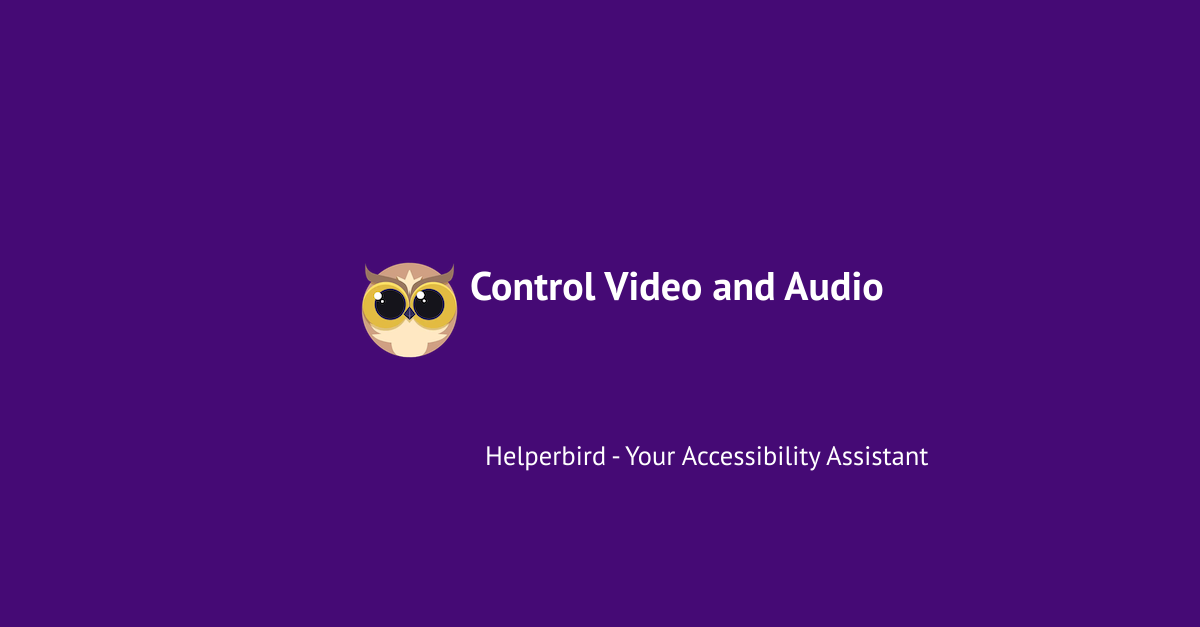
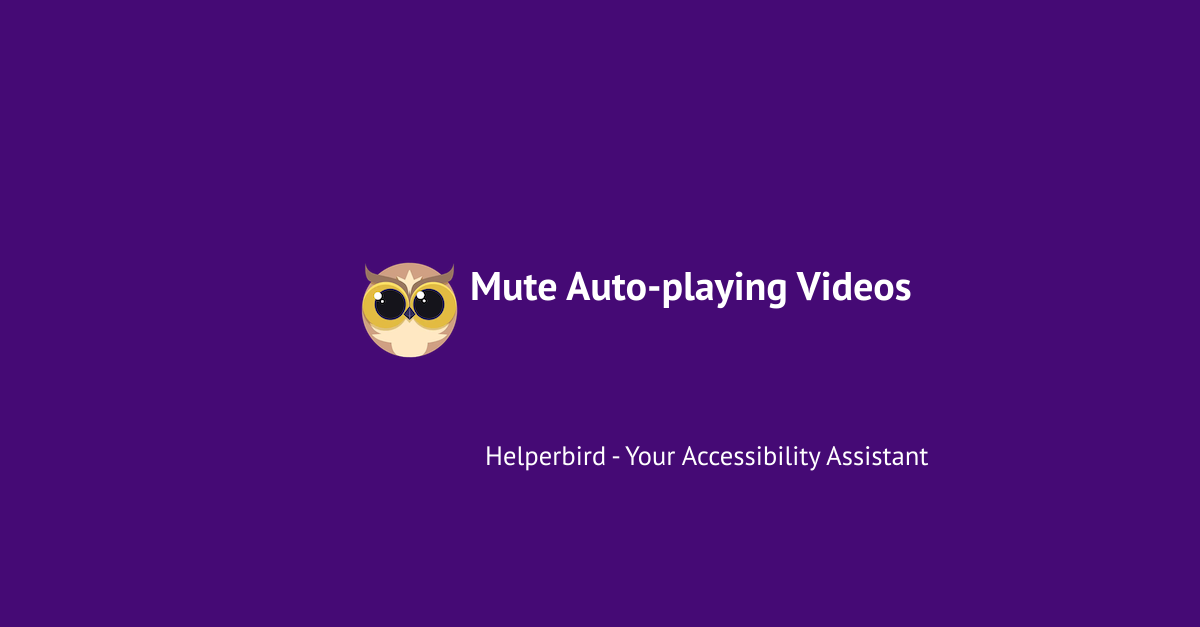
Deploying to gh-pages from  @ 6770f400b1767beb80c26e8b61d45a4356cd2a06 🚀

Changed region(s): [[0.37, 0.4242, 0.7708, 0.4848]]

diff --git a/features/mute-videos/index.html b/features/mute-videos/index.html
@@ -4,7 +4,7 @@
   <head>
     <meta charset="utf-8" />
     <meta content="width=device-width, initial-scale=1.0" name="viewport" />
-    <title>Mute Annoying Auto-playing Videos with Ease - Helperbird features</title>
+    <title>Mute Auto-playing Videos - Helperbird features</title>
     <link href="/assets/js/main.css" rel="stylesheet" />
     <script>
       if ('serviceWorker' in navigator) {
@@ -13,24 +13,24 @@
     </script>
 
     <link href="https://www.helperbird.com/features/mute-videos/" rel="canonical" />
-    <meta content="Silence distractions and take control of playback speeds with Helperbird's Mute Videos and Audio feature. Mute annoying auto-playing videos and adjust their speed for a tailored browsing experience. Available on Chrome, Edge, Firefox, iPad, and iPhone." name="description" />
+    <meta content="Stop annoying auto-playing videos and control playback speeds with Helperbird. Enjoy a quieter, more focused browsing experience on Chrome, Edge, Firefox, iPad, and iPhone." name="description" />
     <meta content="Dyslexia software, Reading Mode for Google Chrome, Voice typing for Chrome, Text to speech for Chrome, text reader, Immersive Reader, dyslexia fonts, accessibility software, dyslexia software, Helperbird for Edge, Helperbird for Firefox, Helperbird for Chrome, Opendyslexic for Chrome, OpenDyslexic" name="keywords" />
 
     <meta name="viewport" content="width=device-width, initial-scale=1, shrink-to-fit=no" />
     <meta content="/assets/images/favicon.png" name="image" />
     <meta content="#5046e4" name="theme-color" />
     <meta content="Helperbird" itemprop="name" />
-    <meta content="Silence distractions and take control of playback speeds with Helperbird's Mute Videos and Audio feature. Mute annoying auto-playing videos and adjust their speed for a tailored browsing experience. Available on Chrome, Edge, Firefox, iPad, and iPhone." itemprop="description" />
+    <meta content="Stop annoying auto-playing videos and control playback speeds with Helperbird. Enjoy a quieter, more focused browsing experience on Chrome, Edge, Firefox, iPad, and iPhone." itemprop="description" />
     <meta content="/assets/images/favicon.png" itemprop="image" />
 
     <meta name="twitter:card" content="summary_large_image" />
     <meta name="twitter:site" content="@helperbird" />
     <meta name="twitter:creator" content="@robertjgabriel" />
-    <meta name="twitter:title" content="Mute Annoying Auto-playing Videos with Ease - Helperbird" />
+    <meta name="twitter:title" content="Mute Auto-playing Videos - Helperbird" />
     <meta property="twitter:domain" content="helperbird.com" />
 
     <meta property="twitter:url" content="https://www.helperbird.com/features/mute-videos/" />
-    <meta name="twitter:description" content="Silence distractions and take control of playback speeds with Helperbird's Mute Videos and Audio feature. Mute annoying auto-playing videos and adjust their speed for a tailored browsing experience. Available on Chrome, Edge, Firefox, iPad, and iPhone." />
+    <meta name="twitter:description" content="Stop annoying auto-playing videos and control playback speeds with Helperbird. Enjoy a quieter, more focused browsing experience on Chrome, Edge, Firefox, iPad, and iPhone." />
 
     <meta name="twitter:image:alt" content="Helperbird promo art with text saying visit Helperbird" />
     <meta name="twitter:image" content="https://www.helperbird.com/features/mute-videos/index.png" />
@@ -39,8 +39,8 @@
 
     <meta property="og:locale" content="en_US" />
     <meta property="og:type" content="website" />
-    <meta property="og:title" content="Mute Annoying Auto-playing Videos with Ease - Helperbird" />
-    <meta property="og:description" content="Silence distractions and take control of playback speeds with Helperbird's Mute Videos and Audio feature. Mute annoying auto-playing videos and adjust their speed for a tailored browsing experience. Available on Chrome, Edge, Firefox, iPad, and iPhone." />
+    <meta property="og:title" content="Mute Auto-playing Videos - Helperbird" />
+    <meta property="og:description" content="Stop annoying auto-playing videos and control playback speeds with Helperbird. Enjoy a quieter, more focused browsing experience on Chrome, Edge, Firefox, iPad, and iPhone." />
     <meta property="og:url" content="https://www.helperbird.com/features/mute-videos/" />
     <meta property="og:site_name" content="Helperbird" />
     <meta property="og:image" content="https://www.helperbird.com/features/mute-videos/index.png" />
@@ -2062,7 +2062,7 @@
         <div class="mx-auto max-w-4xl text-center">
           <h1 class="leading-relaxed font-sans text-4xl font-bold text-black sm:text-6xl">Silence Distractions, Mute Annoying Auto-playing Videos with Ease</h1>
           <p class="leading-relaxed font-sans mt-6 text-2xl text-black">
-            Silence distractions and take control of playback speeds with Helperbird's Mute Videos and Audio feature. Mute annoying auto-playing videos and adjust their speed for a tailored browsing experience. Available on Chrome, Edge, Firefox, iPad, and iPhone.
+            Stop annoying auto-playing videos and control playback speeds with Helperbird. Enjoy a quieter, more focused browsing experience on Chrome, Edge, Firefox, iPad, and iPhone.
           </p>
           <div class="mt-10 flex items-center justify-center gap-x-6">
 
@@ -2105,8 +2105,8 @@
 
           <div class="px-6 py-24 sm:py-32 lg:px-8 mb-12">
             <div class="mx-auto max-w-2xl text-center">
-              <h2 class="text-3xl font-bold text-black sm:text-4xl">Control Video and Audio</h2>
-              <p class="mt-6 text-2xl  text-black">Silence distractions and take control of playback speeds with Helperbird's Mute Videos and Audio feature. Mute annoying auto-playing videos and adjust their speed for a tailored browsing experience. Available on Chrome, Edge, Firefox, iPad, and iPhone.</p>
+              <h2 class="text-3xl font-bold text-black sm:text-4xl">Mute Auto-playing Videos</h2>
+              <p class="mt-6 text-2xl  text-black">Stop annoying auto-playing videos and control playback speeds with Helperbird. Enjoy a quieter, more focused browsing experience on Chrome, Edge, Firefox, iPad, and iPhone.</p>
             </div>
           </div>
 
@@ -2117,29 +2117,26 @@
                 <div class="lg:max-w-lg text-black">
 
               
-                  <h2 class="leading-relaxed font-display text-2xl mb-6 mt-12 font-semibold text-gray-800">Tell Me About This feature</h2>
-<p class="leading-relaxed font-display mb-4 mt-4 text-lg text-gray-900">Helperbird's Auto-Play Video Mute feature allows users to easily silence distractions and improve their browsing experience by muting annoying auto-playing videos.</p>
-<p class="leading-relaxed font-display mb-4 mt-4 text-lg text-gray-900">This feature allows users to focus on the content they want to see and eliminates the need to manually mute each video.</p>
-<p class="leading-relaxed font-display mb-4 mt-4 text-lg text-gray-900">It can also help to reduce data usage and save bandwidth. Additionally, it can be helpful for people who are sensitive to noise, by reducing the chance of discomfort.</p>
-<p class="leading-relaxed font-display mb-4 mt-4 text-lg text-gray-900">Say goodbye to unwanted videos and hello to a better browsing experience with Helperbird's Auto-Play Video Mute feature.</p>
+                  <h2 class="leading-relaxed font-display text-2xl mb-6 mt-12 font-semibold text-gray-800">About This Feature</h2>
+<p class="leading-relaxed font-display mb-4 mt-4 text-lg text-gray-900">Helperbird's Mute Videos and Audio feature lets you easily mute annoying auto-playing videos. This helps you focus on the content you want to see without distractions.</p>
+<p class="leading-relaxed font-display mb-4 mt-4 text-lg text-gray-900">This feature also helps reduce data usage and is great for people who are sensitive to noise.</p>
 <h2 class="leading-relaxed font-display text-2xl mb-6 mt-12 font-semibold text-gray-800">Benefits</h2>
-<p class="leading-relaxed font-display mb-4 mt-4 text-lg text-gray-900">There are several benefits of Helperbird's Auto-Play Video Mute feature, including:</p>
-<h3 class="leading-relaxed font-display text-xl mb-4 mt-10 font-semibold text-gray-700">Silence distractions</h3>
-<p class="leading-relaxed font-display mb-4 mt-4 text-lg text-gray-900">It allows users to easily silence distractions and improve their browsing experience by muting annoying auto-playing videos.</p>
-<h3 class="leading-relaxed font-display text-xl mb-4 mt-10 font-semibold text-gray-700">Eliminates the need to manually mute each video</h3>
-<p class="leading-relaxed font-display mb-4 mt-4 text-lg text-gray-900">It eliminates the need to manually mute each video, allowing users to focus on the content they want to see.</p>
-<h3 class="leading-relaxed font-display text-xl mb-4 mt-10 font-semibold text-gray-700">Help reduce data usage</h3>
-<p class="leading-relaxed font-display mb-4 mt-4 text-lg text-gray-900">It can help to reduce data usage and save bandwidth.</p>
-<h3 class="leading-relaxed font-display text-xl mb-4 mt-10 font-semibold text-gray-700">Sensitive to noise</h3>
-<p class="leading-relaxed font-display mb-4 mt-4 text-lg text-gray-900">It can be helpful for people who are sensitive to noise, by reducing the chance of discomfort.</p>
+<h3 class="leading-relaxed font-display text-xl mb-4 mt-10 font-semibold text-gray-700">Silence Distractions</h3>
+<p class="leading-relaxed font-display mb-4 mt-4 text-lg text-gray-900">Easily mute annoying auto-playing videos to improve your browsing experience.</p>
+<h3 class="leading-relaxed font-display text-xl mb-4 mt-10 font-semibold text-gray-700">Save Time</h3>
+<p class="leading-relaxed font-display mb-4 mt-4 text-lg text-gray-900">No need to manually mute each video—Helperbird does it for you.</p>
+<h3 class="leading-relaxed font-display text-xl mb-4 mt-10 font-semibold text-gray-700">Reduce Data Usage</h3>
+<p class="leading-relaxed font-display mb-4 mt-4 text-lg text-gray-900">Save data and bandwidth by muting videos and audio.</p>
+<h3 class="leading-relaxed font-display text-xl mb-4 mt-10 font-semibold text-gray-700">Noise Sensitivity</h3>
+<p class="leading-relaxed font-display mb-4 mt-4 text-lg text-gray-900">Helpful for people who are sensitive to noise, reducing discomfort.</p>
 <h2 class="leading-relaxed font-display text-2xl mb-6 mt-12 font-semibold text-gray-800">Features</h2>
 <ul class="leading-relaxed list-disc list-inside mt-4 space-y-2 pl-6 text-lg font-display ml-6 mb-8 text-gray-900">
-<li class="leading-relaxed mb-2 text-lg font-display text-gray-900 flex items-center">Stop videos from auto playing.</li>
-<li class="leading-relaxed mb-2 text-lg font-display text-gray-900 flex items-center">Stop audio from auto playing.</li>
-<li class="leading-relaxed mb-2 text-lg font-display text-gray-900 flex items-center">Mute all annoying videos and audio.</li>
+<li class="leading-relaxed mb-2 text-lg font-display text-gray-900 flex items-center">Stop videos from auto-playing</li>
+<li class="leading-relaxed mb-2 text-lg font-display text-gray-900 flex items-center">Stop audio from auto-playing</li>
+<li class="leading-relaxed mb-2 text-lg font-display text-gray-900 flex items-center">Mute all annoying videos and audio</li>
 </ul>
-<h2 class="leading-relaxed font-display text-2xl mb-6 mt-12 font-semibold text-gray-800">Is this Pro feature?</h2>
-<p class="leading-relaxed font-display mb-4 mt-4 text-lg text-gray-900">Yes, this is a Pro feature. You can get a free trial of Helperbird Pro by clicking <a href="/pricing/" class="leading-relaxed font-sans text-lg text-blue-500 hover:text-blue-700 underline">here</a>.</p>
+<h2 class="leading-relaxed font-display text-2xl mb-6 mt-12 font-semibold text-gray-800">Is This a Pro Feature?</h2>
+<p class="leading-relaxed font-display mb-4 mt-4 text-lg text-gray-900">Yes, this is a Pro feature. You can try Helperbird Pro for free by clicking <a href="/pricing/" class="leading-relaxed font-sans text-lg text-blue-500 hover:text-blue-700 underline">here</a>.</p>
 
 
                 </div>

diff --git a/service-worker.js b/service-worker.js
@@ -1784,7 +1784,7 @@ self.__precacheManifest = [
   },
   {
     "url": "extension/index.html",
-    "revision": "d956127eed936b92f3dae8417d48357b"
+    "revision": "e67fb0a56763c70426373405ead1ba12"
   },
   {
     "url": "extension/index.png",
@@ -1936,7 +1936,7 @@ self.__precacheManifest = [
   },
   {
     "url": "features/index.html",
-    "revision": "93789b0316598fa3f4aad6c64db033d0"
+    "revision": "0412d06c8a162acc838e42551665ecc5"
   },
   {
     "url": "features/index.png",
@@ -1944,11 +1944,11 @@ self.__precacheManifest = [
   },
   {
     "url": "features/mute-videos/index.html",
-    "revision": "25566568c2cfc227d9816d9c720925bf"
+    "revision": "e1ec9b0e5a1f1fbab07f17a09e158fec"
   },
   {
     "url": "features/mute-videos/index.png",
-    "revision": "c3776a95616e0a3ef00d8017ba90a864"
+    "revision": "e3eb32b765f8d5f944d5fd3f77c11e0a"
   },
   {
     "url": "features/notes/index.html",
@@ -2920,7 +2920,7 @@ self.__precacheManifest = [
   },
   {
     "url": "index.html",
-    "revision": "e115f6dfd4f556e04186aa93ce1ef543"
+    "revision": "5063b5db984916515d3d17ff5619fe29"
   },
   {
     "url": "index.png",
@@ -3028,7 +3028,7 @@ self.__precacheManifest = [
   },
   {
     "url": "products/chrome/index.html",
-    "revision": "e42a893f88623eabe641eca4e801e8e9"
+    "revision": "be1eba21deb920d9e8e154ebbae9a93c"
   },
   {
     "url": "products/chrome/index.png",
@@ -3036,7 +3036,7 @@ self.__precacheManifest = [
   },
   {
     "url": "products/edge/index.html",
-    "revision": "059b8b58c4c187263501dd3a1aa77faa"
+    "revision": "df9433c83af67aca01a730c14c97a7ad"
   },
   {
     "url": "products/edge/index.png",
@@ -3044,7 +3044,7 @@ self.__precacheManifest = [
   },
   {
     "url": "products/firefox/index.html",
-    "revision": "c74a76bbbd8c55b35e92c925101c29e7"
+    "revision": "a349638854ee324f5b2b33af14641389"
   },
   {
     "url": "products/firefox/index.png",
@@ -3060,7 +3060,7 @@ self.__precacheManifest = [
   },
   {
     "url": "products/ipad/index.html",
-    "revision": "400fdc2013c5f724d95cfcd9bb7a3125"
+    "revision": "7abaa0f32236cafc8e49cf90a634ca6f"
   },
   {
     "url": "products/ipad/index.png",
@@ -3116,7 +3116,7 @@ self.__precacheManifest = [
   },
   {
     "url": "sitemap/index.html",
-    "revision": "3874a91c7263d883283012ed4dffff3b"
+    "revision": "1104053eaa9b811a7f07fc9f6958db2e"
   },
   {
     "url": "sitemap/index.png",

diff --git a/features/index.html b/features/index.html
@@ -3204,18 +3204,18 @@
     <path stroke-linecap="round" stroke-linejoin="round" stroke-width="2" d="M17 14l2-2m0 0l2-2m-2 2l-2-2m2 2l2 2"/>
 </svg>
             </div>
-            <h2 class="leading-relaxed font-sans  mt-5 text-xl  font-semibold text-black">	Control Video and Audio
+            <h2 class="leading-relaxed font-sans  mt-5 text-xl  font-semibold text-black">	Mute Auto-playing Videos
 
             </h2>
           </dt>
-          <dd class="mt-2 text-base text-black line-clamp-3">	Silence distractions and take control of playback speeds with Helperbird's Mute Videos and Audio feature. Mute annoying auto-playing videos and adjust their speed for a tailored browsing experience. Available on Chrome, Edge, Firefox, iPad, and iPhone.
+          <dd class="mt-2 text-base text-black line-clamp-3">	Stop annoying auto-playing videos and control playback speeds with Helperbird. Enjoy a quieter, more focused browsing experience on Chrome, Edge, Firefox, iPad, and iPhone.
           </dd>
 		  <div class="mt-4 mb-4 flex items-center gap-x-4">
 			<a
 				class="btn-base btn btn-secondary shadow-md"
 				href="/features/mute-videos/"
-				aria-label="More information on feature Control Video and Audio"
-			title="More information on feature Control Video and Audio"
+				aria-label="More information on feature Mute Auto-playing Videos"
+			title="More information on feature Mute Auto-playing Videos"
 				>Learn more</a
 			>
 			</div>

diff --git a/sitemap/index.html b/sitemap/index.html
@@ -5818,21 +5818,21 @@
 
           <div>
 
-          <a href="/features/mute-videos/" class="leading-relaxed font-sans text-blue-600 hover:decoration-wavy hover:underline text-xl font-bold" title="Mute Annoying Auto-playing Videos with Ease">
-            Mute Annoying Auto-playing Videos with Ease
+          <a href="/features/mute-videos/" class="leading-relaxed font-sans text-blue-600 hover:decoration-wavy hover:underline text-xl font-bold" title="Mute Auto-playing Videos">
+            Mute Auto-playing Videos
           </a>
           
 
 
             <p class="leading-relaxed font-sans  mt-5  text-base text-black mb-5 line-clamp-3">
-              Silence distractions and take control of playback speeds with Helperbird's Mute Videos and Audio feature. Mute annoying auto-playing videos and adjust their speed for a tailored browsing experience. Available on Chrome, Edge, Firefox, iPad, and iPhone.
+              Stop annoying auto-playing videos and control playback speeds with Helperbird. Enjoy a quieter, more focused browsing experience on Chrome, Edge, Firefox, iPad, and iPhone.
             </p>
 
 
             <div class="mt-3">
               <a
                 href="/features/mute-videos/"
-                title="Mute Annoying Auto-playing Videos with Ease"
+                title="Mute Auto-playing Videos"
                 class="btn-sm btn-outline btn  rounded-xl shadow-md ">
                 Visit
               </a>

diff --git a/index.html b/index.html
@@ -2816,19 +2816,19 @@ Whether you're reading a movie review or writing an email, Helperbird can make w
 </svg>
 					</div>
 					<h3 class="leading-relaxed font-sans mt-5 text-lg font-semibold text-black">
-						Control Video and Audio
+						Mute Auto-playing Videos
 					</h3>
 
 					<p class=" line-clamp-3 font-sans text-base leading-relaxed my-4 text-black">
-						Silence distractions and take control of playback speeds with Helperbird's Mute Videos and Audio feature. Mute annoying auto-playing videos and adjust their speed for a tailored browsing experience. Available on Chrome, Edge, Firefox, iPad, and iPhone.
+						Stop annoying auto-playing videos and control playback speeds with Helperbird. Enjoy a quieter, more focused browsing experience on Chrome, Edge, Firefox, iPad, and iPhone.
 					</p>
 
 					<div class="mt-4 flex items-center gap-x-4">
 						<a
 						class="btn-base btn btn-secondary shadow-md"
 						href="/features/mute-videos/"
-						aria-label="More information on feature Control Video and Audio"
-						title="More information on feature Control Video and Audio"
+						aria-label="More information on feature Mute Auto-playing Videos"
+						title="More information on feature Mute Auto-playing Videos"
 					  >Read more</a>
 					  
 					</div>

diff --git a/products/ipad/index.html b/products/ipad/index.html
@@ -2683,19 +2683,19 @@
 </svg>
 						</div>
 						<h3 class="leading-relaxed font-sans mt-5 text-lg font-semibold text-black">
-							Control Video and Audio
+							Mute Auto-playing Videos
 						</h3>
 
 						<p class=" line-clamp-3 font-sans text-base leading-relaxed my-4 text-black">
-							Silence distractions and take control of playback speeds with Helperbird's Mute Videos and Audio feature. Mute annoying auto-playing videos and adjust their speed for a tailored browsing experience. Available on Chrome, Edge, Firefox, iPad, and iPhone.
+							Stop annoying auto-playing videos and control playback speeds with Helperbird. Enjoy a quieter, more focused browsing experience on Chrome, Edge, Firefox, iPad, and iPhone.
 						</p>
 
 						<div class="mt-4 flex items-center gap-x-4">
 							<a
 							class="btn-base btn btn-secondary shadow-md"
 							href="/features/mute-videos/"
-							aria-label="More information on feature Control Video and Audio"
-							title="Discover more about feature Control Video and Audio"
+							aria-label="More information on feature Mute Auto-playing Videos"
+							title="Discover more about feature Mute Auto-playing Videos"
 						  >Discover more</a>
 						  
 						</div>

diff --git a/extension/index.html b/extension/index.html
@@ -2744,19 +2744,19 @@
 </svg>
 					</div>
 					<h3 class="leading-relaxed font-sans mt-5 text-lg font-semibold text-black">
-						Control Video and Audio
+						Mute Auto-playing Videos
 					</h3>
 
 					<p class=" line-clamp-3 font-sans text-base leading-relaxed my-4 text-black">
-						Silence distractions and take control of playback speeds with Helperbird's Mute Videos and Audio feature. Mute annoying auto-playing videos and adjust their speed for a tailored browsing experience. Available on Chrome, Edge, Firefox, iPad, and iPhone.
+						Stop annoying auto-playing videos and control playback speeds with Helperbird. Enjoy a quieter, more focused browsing experience on Chrome, Edge, Firefox, iPad, and iPhone.
 					</p>
 
 					<div class="mt-4 flex items-center gap-x-4">
 						<a
 						class="btn-base btn btn-secondary shadow-md"
 						href="/features/mute-videos/"
-						aria-label="More information on feature Control Video and Audio"
-						title="More information on feature Control Video and Audio"
+						aria-label="More information on feature Mute Auto-playing Videos"
+						title="More information on feature Mute Auto-playing Videos"
 					  >Read more</a>
 					  
 					</div>

diff --git a/products/chrome/index.html b/products/chrome/index.html
@@ -2736,19 +2736,19 @@
 </svg>
 					</div>
 					<h3 class="leading-relaxed font-sans mt-5 text-lg font-semibold text-black">
-						Control Video and Audio
+						Mute Auto-playing Videos
 					</h3>
 
 					<p class=" line-clamp-3 font-sans text-base leading-relaxed my-4 text-black">
-						Silence distractions and take control of playback speeds with Helperbird's Mute Videos and Audio feature. Mute annoying auto-playing videos and adjust their speed for a tailored browsing experience. Available on Chrome, Edge, Firefox, iPad, and iPhone.
+						Stop annoying auto-playing videos and control playback speeds with Helperbird. Enjoy a quieter, more focused browsing experience on Chrome, Edge, Firefox, iPad, and iPhone.
 					</p>
 
 					<div class="mt-4 flex items-center gap-x-4">
 						<a
 						class="btn-base btn btn-secondary shadow-md"
 						href="/features/mute-videos/"
-						aria-label="More information on feature Control Video and Audio"
-						title="More information on feature Control Video and Audio"
+						aria-label="More information on feature Mute Auto-playing Videos"
+						title="More information on feature Mute Auto-playing Videos"
 					  >Read more</a>
 					  
 					</div>

diff --git a/products/edge/index.html b/products/edge/index.html
@@ -2738,19 +2738,19 @@
 </svg>
 					</div>
 					<h3 class="leading-relaxed font-sans mt-5 text-lg font-semibold text-black">
-						Control Video and Audio
+						Mute Auto-playing Videos
 					</h3>
 
 					<p class=" line-clamp-3 font-sans text-base leading-relaxed my-4 text-black">
-						Silence distractions and take control of playback speeds with Helperbird's Mute Videos and Audio feature. Mute annoying auto-playing videos and adjust their speed for a tailored browsing experience. Available on Chrome, Edge, Firefox, iPad, and iPhone.
+						Stop annoying auto-playing videos and control playback speeds with Helperbird. Enjoy a quieter, more focused browsing experience on Chrome, Edge, Firefox, iPad, and iPhone.
 					</p>
 
 					<div class="mt-4 flex items-center gap-x-4">
 						<a
 						class="btn-base btn btn-secondary shadow-md"
 						href="/features/mute-videos/"
-						aria-label="More information on feature Control Video and Audio"
-						title="More information on feature Control Video and Audio"
+						aria-label="More information on feature Mute Auto-playing Videos"
+						title="More information on feature Mute Auto-playing Videos"
 					  >Read more</a>
 					  
 					</div>

diff --git a/products/firefox/index.html b/products/firefox/index.html
@@ -2736,19 +2736,19 @@
 </svg>
 					</div>
 					<h3 class="leading-relaxed font-sans mt-5 text-lg font-semibold text-black">
-						Control Video and Audio
+						Mute Auto-playing Videos
 					</h3>
 
 					<p class=" line-clamp-3 font-sans text-base leading-relaxed my-4 text-black">
-						Silence distractions and take control of playback speeds with Helperbird's Mute Videos and Audio feature. Mute annoying auto-playing videos and adjust their speed for a tailored browsing experience. Available on Chrome, Edge, Firefox, iPad, and iPhone.
+						Stop annoying auto-playing videos and control playback speeds with Helperbird. Enjoy a quieter, more focused browsing experience on Chrome, Edge, Firefox, iPad, and iPhone.
 					</p>
 
 					<div class="mt-4 flex items-center gap-x-4">
 						<a
 						class="btn-base btn btn-secondary shadow-md"
 						href="/features/mute-videos/"
-						aria-label="More information on feature Control Video and Audio"
-						title="More information on feature Control Video and Audio"
+						aria-label="More information on feature Mute Auto-playing Videos"
+						title="More information on feature Mute Auto-playing Videos"
 					  >Read more</a>
 					  
 					</div>
